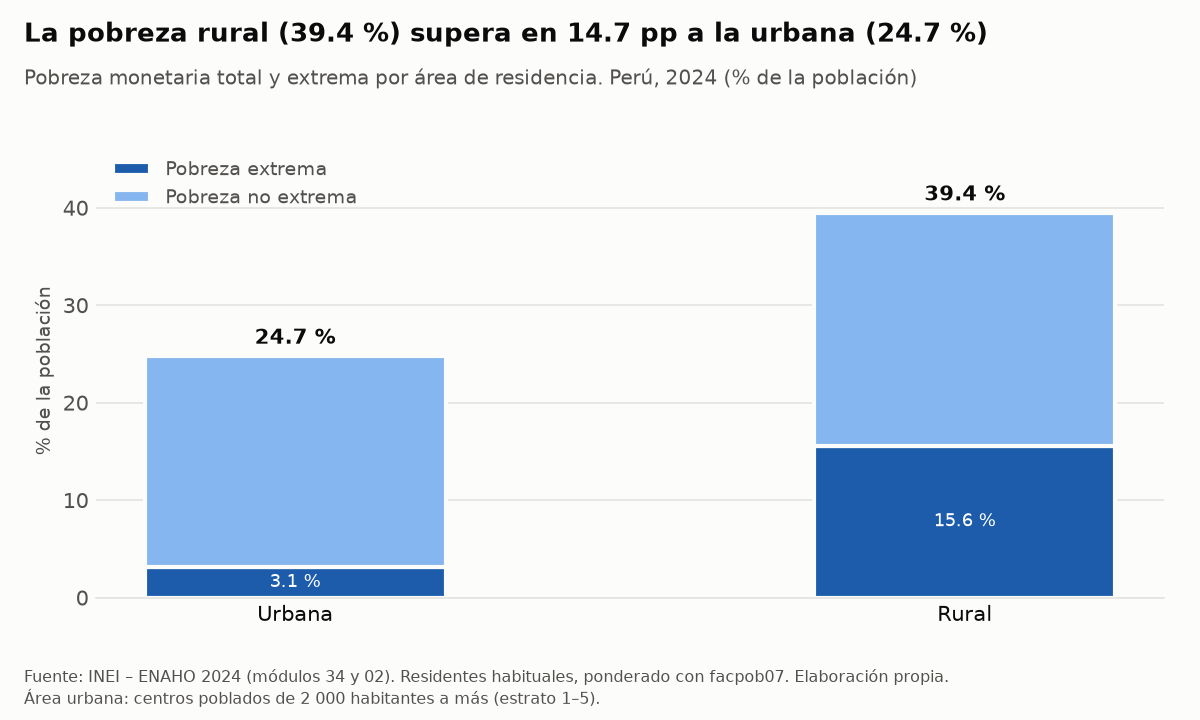
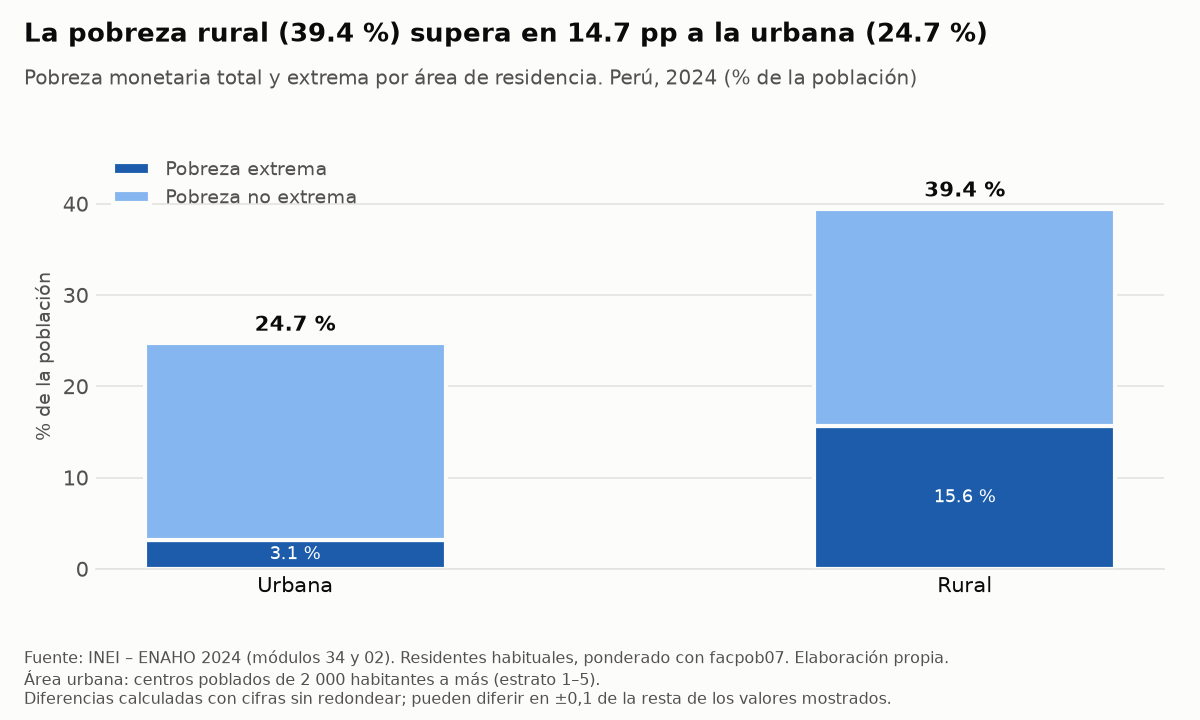
Gráficos: regla de redondeo y gráfico BCRP

diff --git a/tarea_4/informes/grafico_bcrp.py b/tarea_4/informes/grafico_bcrp.py
@@ -1,0 +1,105 @@
+"""Gráfico BCRP del informe: variación anual (dic.–dic.) de dos series, con los cálculos de comparar_series del MCP.
+
+    uv run informes/grafico_bcrp.py                                   # alimentos vs resto, dic-2019 a dic-2024
+    uv run informes/grafico_bcrp.py --a PN39445PM --b PN38706PM --desde 2019-12 --hasta 2024-12
+
+Las cifras salen de comparar_series (mcp/server.py), el mismo código que usa el servidor MCP: no se escriben a mano.
+"""
+import argparse
+import sys
+from pathlib import Path
+
+import matplotlib
+
+matplotlib.use("Agg")
+import matplotlib.pyplot as plt  # noqa: E402
+
+RAIZ = Path(__file__).resolve().parents[1]           # tarea_4/
+sys.path.insert(0, str(RAIZ / "mcp"))                 # carpeta del servidor (sin __init__.py: no tapa la librería mcp)
+from server import comparar_series  # noqa: E402
+
+FIGURAS = RAIZ / "figuras"
+SUPERFICIE, TEXTO, TEXTO_2, GRILLA = "#fcfcfb", "#0b0b0b", "#52514e", "#e4e3df"
+COLOR_A, COLOR_B = "#2a78d6", "#eb6834"               # paleta categórica de referencia (dataviz): slots 1 y 2
+
+
+def etiqueta(nombre):
+    """'Índice de precios … - IPC Alimentos y Bebidas' -> 'Alimentos y bebidas'."""
+    parte = nombre.split(" - ")[-1].replace("IPC ", "").strip()
+    return parte[:1].upper() + parte[1:].lower()
+
+
+def main():
+    p = argparse.ArgumentParser(description=__doc__, formatter_class=argparse.RawDescriptionHelpFormatter)
+    p.add_argument("--a", default="PN39445PM")
+    p.add_argument("--b", default="PN38706PM")
+    p.add_argument("--desde", default="2019-12")
+    p.add_argument("--hasta", default="2024-12")
+    args = p.parse_args()
+
+    r = comparar_series(args.a, args.b, args.desde, args.hasta)
+    a, b, anios = r["a"], r["b"], r["por_anio"]
+    na, nb = etiqueta(a["nombre"]), etiqueta(b["nombre"])
+
+    mas = [x for x in anios if x["diferencia_pp"] > 0]
+    mayor = max(anios, key=lambda x: x["diferencia_pp"])
+    comparado = "el resto de la canasta" if nb.lower().startswith("sin ") else nb.lower()
+    titulo = (f"Los precios de {na.lower()} subieron más que {comparado} en {len(mas)} de {len(anios)} años;\n"
+              f"la mayor diferencia fue en {mayor['anio']} ({mayor['diferencia_pp']:+.1f} pp)")
+    ambito = "Lima Metropolitana. " if all("Lima Metropolitana" in s["nombre"] for s in (a, b)) else ""
+    subtitulo = (f"Variación anual del IPC, diciembre a diciembre (%). {ambito}\n"
+                 f"Acumulado {a['primero']['periodo']} a {a['ultimo']['periodo']}: "
+                 f"{na.lower()} {a['variacion_pct']:+.1f} %, {nb.lower()} {b['variacion_pct']:+.1f} % "
+                 f"(diferencia {r['diferencia_pp']:+.1f} pp)")
+
+    fig, ax = plt.subplots(figsize=(8.6, 5.0), dpi=150)
+    fig.patch.set_facecolor(SUPERFICIE)
+    ax.set_facecolor(SUPERFICIE)
+    for lado in ("top", "right", "left"):
+        ax.spines[lado].set_visible(False)
+    ax.spines["bottom"].set_color(GRILLA)
+    ax.tick_params(colors=TEXTO_2, length=0)
+
+    x = range(len(anios))
+    ancho = 0.36
+    for desplaz, clave, color, nombre in ((-ancho / 2, "a", COLOR_A, na), (ancho / 2, "b", COLOR_B, nb)):
+        valores = [v[clave] for v in anios]
+        ax.bar([i + desplaz for i in x], valores, width=ancho, color=color, edgecolor=SUPERFICIE, linewidth=2,
+               label=f"{nombre} ({a['codigo'] if clave == 'a' else b['codigo']})")
+        for i, v in enumerate(valores):
+            ax.text(i + desplaz, v + (0.25 if v >= 0 else -0.25), f"{v:.1f}", ha="center",
+                    va="bottom" if v >= 0 else "top", fontsize=8.5, color=TEXTO)
+    ax.axhline(0, color=GRILLA, linewidth=1)
+    ax.set_xticks(list(x), [str(v["anio"]) for v in anios], fontsize=10, color=TEXTO)
+    ax.set_ylabel("Variación anual (%)", color=TEXTO_2, fontsize=9)
+    ax.set_ylim(min(0, min(min(v["a"], v["b"]) for v in anios)) * 1.2,
+                max(max(v["a"], v["b"]) for v in anios) * 1.18)
+    ax.yaxis.grid(True, color=GRILLA, linewidth=0.8)
+    ax.set_axisbelow(True)
+    ax.legend(frameon=False, loc="upper right", fontsize=9, labelcolor=TEXTO_2)
+
+    fig.subplots_adjust(top=0.74, bottom=0.20, left=0.08, right=0.98)
+    fig.text(0.02, 0.975, titulo, ha="left", va="top", fontsize=11.5, fontweight="bold", color=TEXTO,
+             linespacing=1.3)
+    fig.text(0.02, 0.865, subtitulo, ha="left", va="top", fontsize=8.6, color=TEXTO_2, linespacing=1.4)
+    fig.text(0.02, 0.015,
+             f"Fuente: BCRP, series {a['codigo']} y {b['codigo']} (índices, base Dic.2021 = 100). "
+             "Cálculos: comparar_series (mcp/server.py). Elaboración propia.\n"
+             "Diferencias calculadas con cifras sin redondear; pueden diferir en ±0,1 de la resta de los "
+             "valores mostrados.\n"
+             f"Datos: {a['fuente']}\n       {b['fuente']}",
+             ha="left", va="bottom", fontsize=6.8, color=TEXTO_2)
+
+    FIGURAS.mkdir(exist_ok=True)
+    salida = FIGURAS / f"bcrp_{a['codigo']}_vs_{b['codigo']}_{args.desde}_{args.hasta}.png"
+    fig.savefig(salida, facecolor=SUPERFICIE)
+    plt.close(fig)
+    print(f"Guardado: {salida.relative_to(RAIZ)}")
+    print(f"{na}: {a['variacion_pct']:+.2f} % | {nb}: {b['variacion_pct']:+.2f} % | "
+          f"diferencia {r['diferencia_pp']:+.2f} pp")
+    for v in anios:
+        print(f"  {v['anio']}: {v['a']:.2f} vs {v['b']:.2f} ({v['diferencia_pp']:+.2f} pp)")
+
+
+if __name__ == "__main__":
+    main()

diff --git a/tarea_4/.claude/skills/graficando-enaho/scripts/graficar.py b/tarea_4/.claude/skills/graficando-enaho/scripts/graficar.py
@@ -26,6 +26,8 @@ AZUL, AZUL_CLARO, AZUL_OSCURO = "#2a78d6", "#86b6ef", "#1c5cab"
 
 FUENTE = ("Fuente: INEI – ENAHO 2024 (módulos 34 y 02). Residentes habituales, ponderado con facpob07. "
           "Elaboración propia.")
+NOTA_REDONDEO = ("Diferencias calculadas con cifras sin redondear; pueden diferir en ±0,1 de la resta de los "
+                 "valores mostrados.")
 
 
 def nombre(depto):
@@ -69,12 +71,12 @@ def guardar(fig, archivo):
 
 def grafico_area(ind):
     d = ind[ind.nivel == "area"].set_index("categoria").loc[["Urbana", "Rural"]]
-    u, r = round(d.loc["Urbana", "pobreza_pct"], 1), round(d.loc["Rural", "pobreza_pct"], 1)
+    u, r = d.loc["Urbana", "pobreza_pct"], d.loc["Rural", "pobreza_pct"]   # sin redondear: se redondea al mostrar
     mayor, menor = ("rural", "urbana") if r >= u else ("urbana", "rural")
     titulo = (f"La pobreza {mayor} ({max(u, r):.1f} %) supera en {abs(r - u):.1f} pp a la {menor} "
               f"({min(u, r):.1f} %)")
     fig, ax = lienzo()
-    fig.subplots_adjust(top=0.80, bottom=0.17, left=0.08, right=0.97)
+    fig.subplots_adjust(top=0.80, bottom=0.21, left=0.08, right=0.97)
     x = range(len(d))
     extrema = d.pobreza_extrema_pct
     no_extrema = d.pobreza_pct - d.pobreza_extrema_pct
@@ -93,16 +95,16 @@ def grafico_area(ind):
     ax.set_axisbelow(True)
     ax.legend(frameon=False, loc="upper left", fontsize=9, labelcolor=TEXTO_2)
     textos(fig, titulo, "Pobreza monetaria total y extrema por área de residencia. Perú, 2024 (% de la población)",
-           "Área urbana: centros poblados de 2 000 habitantes a más (estrato 1–5).")
+           "Área urbana: centros poblados de 2 000 habitantes a más (estrato 1–5).\n" + NOTA_REDONDEO)
     guardar(fig, "pobreza_area_2024.png")
 
 
 def grafico_sexo(ind):
     d = ind[ind.nivel == "sexo"].set_index("categoria").loc[["Mujer", "Hombre"]]
-    m, h = round(d.loc["Mujer", "pobreza_pct"], 1), round(d.loc["Hombre", "pobreza_pct"], 1)
+    m, h = d.loc["Mujer", "pobreza_pct"], d.loc["Hombre", "pobreza_pct"]   # sin redondear: se redondea al mostrar
     titulo = f"Pobreza monetaria: mujeres {m:.1f} % y hombres {h:.1f} % (diferencia de {abs(m - h):.1f} pp)"
     fig, ax = lienzo()
-    fig.subplots_adjust(top=0.80, bottom=0.19, left=0.08, right=0.97)
+    fig.subplots_adjust(top=0.80, bottom=0.21, left=0.08, right=0.97)
     x = range(len(d))
     ax.bar(x, d.pobreza_pct, width=0.45, color=AZUL, edgecolor=SUPERFICIE, linewidth=2)
     for i, v in enumerate(d.pobreza_pct):
@@ -114,7 +116,7 @@ def grafico_sexo(ind):
     ax.set_axisbelow(True)
     textos(fig, titulo, "Pobreza monetaria por sexo. Perú, 2024 (% de la población)",
            "No se calcularon intervalos de confianza: una diferencia pequeña puede no ser estadísticamente "
-           "significativa.")
+           "significativa.\n" + NOTA_REDONDEO)
     guardar(fig, "pobreza_sexo_2024.png")
 
 
